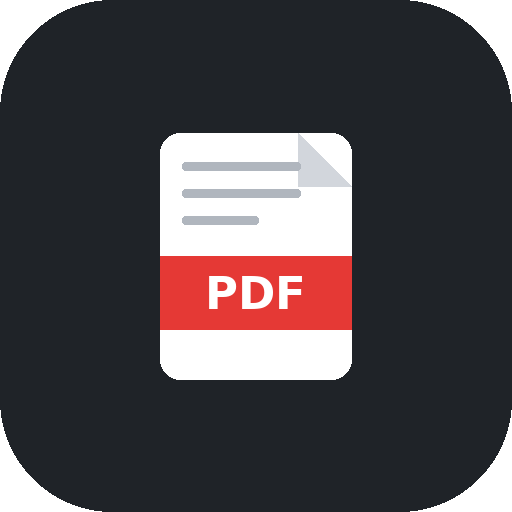
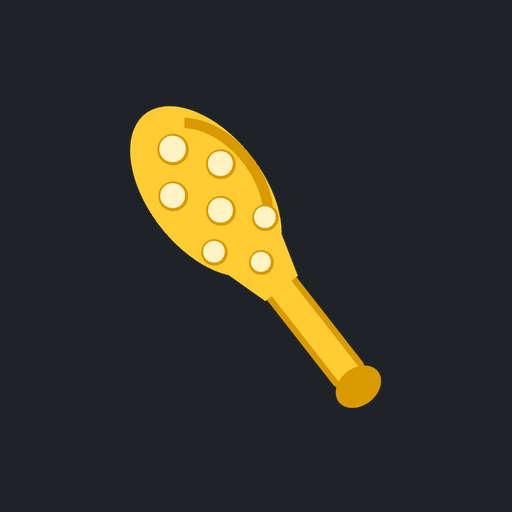
앱 이름을 PDF 도깨비로, 도깨비 방망이 아이콘 적용 (v1.2.1)
Claude-Session: https://claude.ai/code/session_01GjaCB1YmEQ96537hHuePKR

diff --git a/pdf-viewer/app.js b/pdf-viewer/app.js
@@ -3,7 +3,7 @@ import { svg, fillIcons } from './icons.js';
 
 pdfjsLib.GlobalWorkerOptions.workerSrc = new URL('./lib/pdf.worker.min.mjs', import.meta.url).href;
 const LIB = new URL('./lib/', import.meta.url).href;
-const VERSION = '1.2.0';
+const VERSION = '1.2.1';
 
 const $ = (s) => document.querySelector(s);
 const scroller = $('#scroller'), pagesEl = $('#pages'), topbar = $('#topbar');
@@ -548,7 +548,7 @@ function openGoto() {
 
 function openInfo() {
   openSheet(() => [
-    h('h3', {}, `PDF 뷰어 ${VERSION}`),
+    h('h3', {}, `PDF 도깨비 ${VERSION}`),
     h('p', {}, '두 번 탭하면 확대·원래 크기로 바뀌고, 두 손가락으로 벌리면 원하는 만큼 확대됩니다. 확대할 때마다 그 배율로 다시 그려서 글자가 흐려지지 않습니다.'),
     h('p', {}, '한 번 탭하면 위아래 메뉴가 숨겨지거나 나타납니다. 읽던 쪽은 문서마다 기억합니다.'),
     h('p', {}, '스캔본이나 사진으로 만든 PDF는 원본 해상도 이상으로는 선명해지지 않습니다.'),
@@ -728,7 +728,7 @@ function goHome() {
   if (an.on) annoMode(false);
   savePos(); closeDoc();
   scroller.hidden = true; emptyEl.hidden = false;
-  document.body.classList.add('noDoc'); document.title = 'PDF 뷰어';
+  document.body.classList.add('noDoc'); document.title = 'PDF 도깨비';
   renderRecent();
 }
 $('#btnDark').addEventListener('click', () => {

diff --git a/pdf-viewer/index.html b/pdf-viewer/index.html
@@ -4,7 +4,7 @@
 <meta charset="utf-8">
 <meta name="viewport" content="width=device-width,initial-scale=1,maximum-scale=1,user-scalable=no,viewport-fit=cover">
 <meta name="theme-color" content="#1f2328">
-<title>PDF 뷰어</title>
+<title>PDF 도깨비</title>
 <link rel="manifest" href="manifest.webmanifest">
 <link rel="icon" href="icon-192.png">
 <link rel="apple-touch-icon" href="icon-192.png">
@@ -18,7 +18,7 @@
 
 <div id="empty">
   <div class="emptyBox">
-    <h1>PDF 뷰어</h1>
+    <h1>PDF 도깨비</h1>
     <p class="sub">광고 없이 PDF만 봅니다</p>
     <div class="btnRow">
       <button id="btnOpenBig" class="big">PDF 열기</button>

diff --git a/pdf-viewer/sw.js b/pdf-viewer/sw.js
@@ -1,6 +1,6 @@
 // 화면 파일은 온라인이면 항상 최신으로 받고(수정 즉시 반영), 오프라인이면 저장해 둔 것을 씁니다.
 // lib/ 안의 pdf.js와 글꼴 데이터는 바뀌지 않으므로 한 번 받으면 계속 저장본을 씁니다.
-const CACHE = 'pdfv-v3';
+const CACHE = 'pdfv-v4';
 const SHELL = ['./', 'index.html', 'style.css', 'app.js', 'icons.js', 'stamps.js', 'edit.js', 'manifest.webmanifest', 'icon-192.png',
   'lib/pdf.min.mjs', 'lib/pdf.worker.min.mjs'];
 
